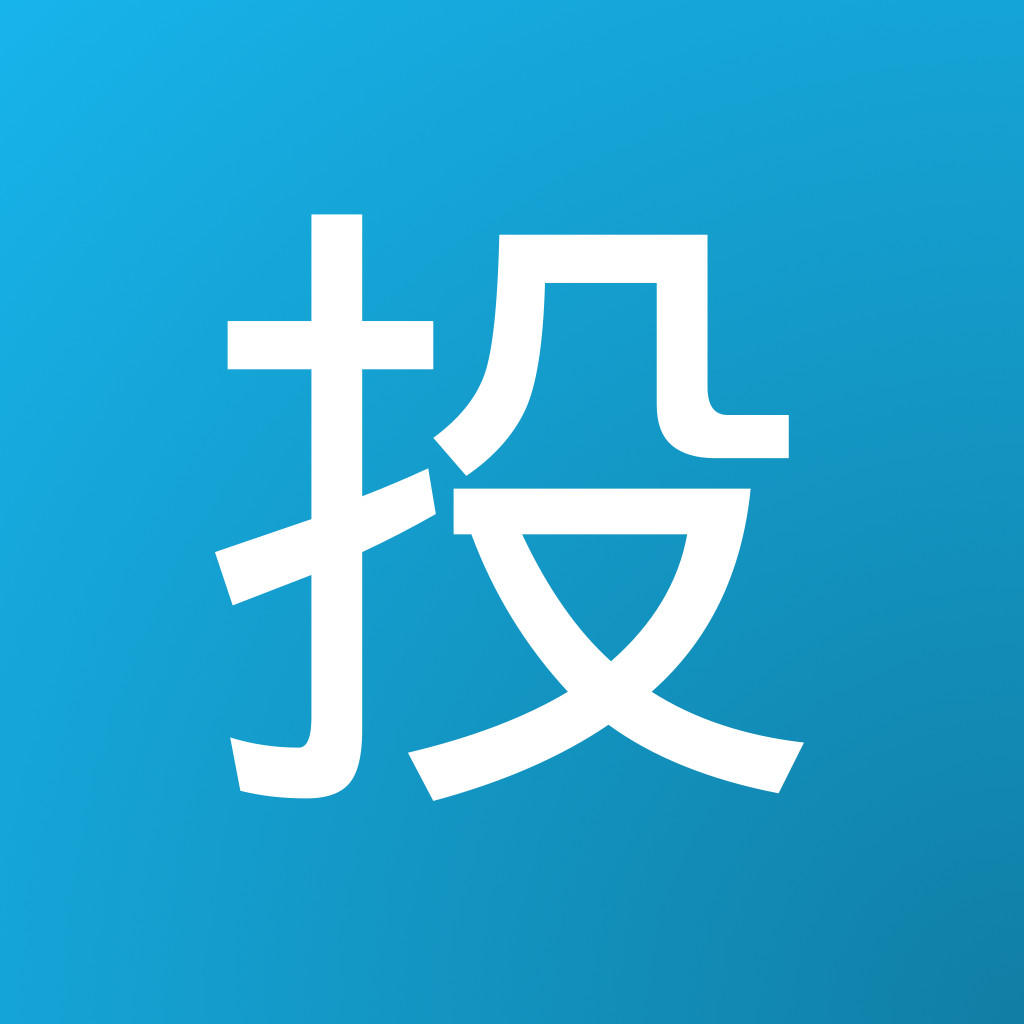
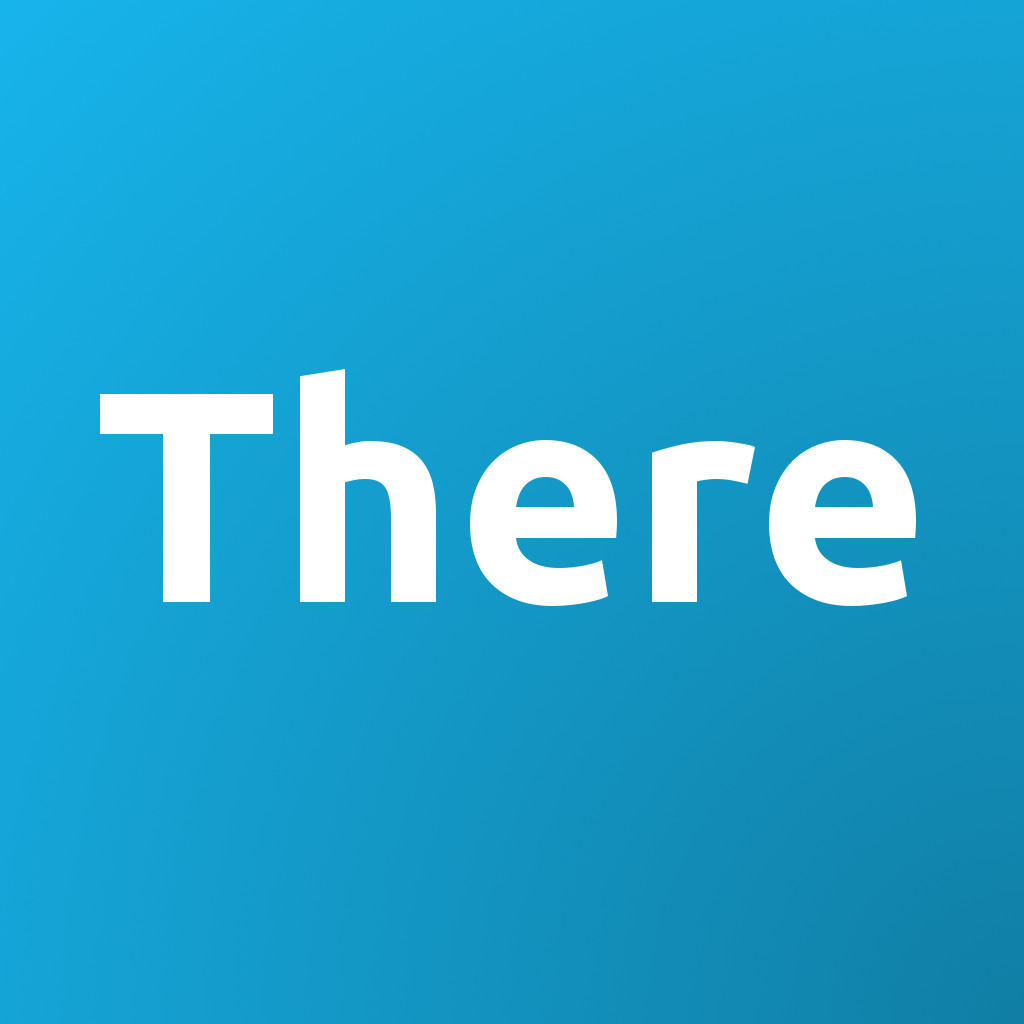
update share img and favico, update wechat gzh link, fix require config urlargs

Changed region(s): [[0.0938, 0.1875, 0.9062, 0.7812]]

diff --git a/rest-server/static/js/config.js b/rest-server/static/js/config.js
@@ -1,1 +1,1 @@
-var require={waitSeconds:15,urlArgs:"v=100",paths:{jquery:"vendor/jquery.min","art-template":"vendor/art-template",util:"module/util",jpegMeta:"module/jpegMeta",JPEGEncoder:"module/JPEGEncoder",imageCompresser:"module/imageCompresser",uploadImg:"module/uploadImg",thread:"module/thread"}};
+var require={waitSeconds:15,urlArgs:"t=100",paths:{jquery:"vendor/jquery.min","art-template":"vendor/art-template",util:"module/util",jpegMeta:"module/jpegMeta",JPEGEncoder:"module/JPEGEncoder",imageCompresser:"module/imageCompresser",uploadImg:"module/uploadImg",thread:"module/thread"}};

diff --git a/rest-server/templates/personal.html b/rest-server/templates/personal.html
@@ -49,7 +49,7 @@
 
    <div id="account">
     <div class="pWrap pr">
-     <h1 class="pTitle pr borderBtm1" data-link="/notice_list">
+     <h1 class="pTitle pr borderBtm1" data-link="http://mp.weixin.qq.com/s?__biz=MzAxMzc4ODY1Nw==&mid=401673202&idx=1&sn=2711a67af477fd3c00f48699bbc76f0e&scene=0#wechat_redirect">
       <span class="cf iconAccount"></span>公众账号
       <span class="cf iconArrowR"></span>
      </h1>

diff --git a/rest-server/static/src/js/config.js b/rest-server/static/src/js/config.js
@@ -3,7 +3,7 @@ var require = {
 
     waitSeconds: 15,
     //urlArgs: "t=" + (new Date()).getTime(),
-    urlArgs: "v=100",
+    urlArgs: "t=100",
 
     paths: {
 
